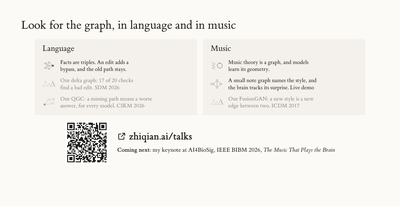
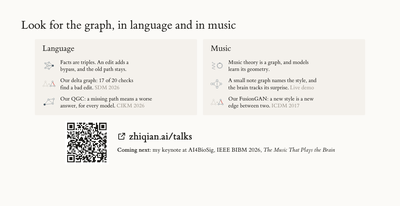
Final slide: one text color, venues in gray
Claude-Session: https://claude.ai/code/session_01CwywQbHke1EKdwXqbCrAvs

diff --git a/graph-inside/2026-11-19-cs-colloquium/index.html b/graph-inside/2026-11-19-cs-colloquium/index.html
@@ -1450,7 +1450,7 @@ var t=setInterval(function(){if(window.Reveal&&Reveal.on&&window.SC){clearInterv
 <section data-ch="4">
 <section data-ch="4">
   <h2>Look for the graph, in language and in music</h2>
-  <svg viewBox="0 0 1180 268" style="width:100%;max-width:1160px;height:auto;max-height:268px;display:block;margin:0 auto"><defs><marker id="fina" viewBox="0 0 10 10" refX="8" refY="5" markerWidth="6" markerHeight="6" orient="auto-start-reverse"><path d="M0,0 L10,5 L0,10 z" fill="#5F5D50"/></marker><marker id="fino" viewBox="0 0 10 10" refX="8" refY="5" markerWidth="6" markerHeight="6" orient="auto-start-reverse"><path d="M0,0 L10,5 L0,10 z" fill="#F76902"/></marker><marker id="fint" viewBox="0 0 10 10" refX="8" refY="5" markerWidth="6" markerHeight="6" orient="auto-start-reverse"><path d="M0,0 L10,5 L0,10 z" fill="#4C5B66"/></marker><marker id="fink" viewBox="0 0 10 10" refX="8" refY="5" markerWidth="6" markerHeight="6" orient="auto-start-reverse"><path d="M0,0 L10,5 L0,10 z" fill="#1F1E1B"/></marker><marker id="fing" viewBox="0 0 10 10" refX="8" refY="5" markerWidth="6" markerHeight="6" orient="auto-start-reverse"><path d="M0,0 L10,5 L0,10 z" fill="#ACA39A"/></marker><radialGradient id="fingl"><stop offset="0" stop-color="#F76902" stop-opacity=".5"/><stop offset="1" stop-color="#F76902" stop-opacity="0"/></radialGradient><radialGradient id="fingt"><stop offset="0" stop-color="#4C5B66" stop-opacity=".45"/><stop offset="1" stop-color="#4C5B66" stop-opacity="0"/></radialGradient></defs><defs><marker id="axk" viewBox="0 0 10 10" refX="8" refY="5" markerWidth="5" markerHeight="5" orient="auto"><path d="M0,0 L10,5 L0,10 z" fill="#1F1E1B"/></marker></defs><rect x="30" y="6" width="550" height="258" rx="4" fill="#F4F1EC" stroke="none" stroke-width="0" /><text x="56" y="46" font-size="28" font-weight="400" fill="#1F1E1B" text-anchor="start" font-family="et-book,Georgia,serif" style="font-size-adjust:none">Language</text><g transform="translate(78,96) scale(.5) translate(-78,-96)"><line x1="52" y1="80" x2="78" y2="74" stroke="#4C5B66" stroke-width="1.1" /><line x1="52" y1="80" x2="78" y2="96" stroke="#4C5B66" stroke-width="1.1" /><line x1="52" y1="80" x2="78" y2="118" stroke="#4C5B66" stroke-width="1.1" /><line x1="52" y1="112" x2="78" y2="74" stroke="#4C5B66" stroke-width="1.1" /><line x1="52" y1="112" x2="78" y2="96" stroke="#4C5B66" stroke-width="1.1" /><line x1="52" y1="112" x2="78" y2="118" stroke="#4C5B66" stroke-width="1.1" /><line x1="78" y1="74" x2="104" y2="96" stroke="#4C5B66" stroke-width="1.6" /><line x1="78" y1="96" x2="104" y2="96" stroke="#4C5B66" stroke-width="1.6" /><line x1="78" y1="118" x2="104" y2="96" stroke="#4C5B66" stroke-width="1.6" /><circle cx="52" cy="80" r="4.5" fill="#FBFAF7" stroke="#4C5B66" stroke-width="1.6" /><circle cx="52" cy="112" r="4.5" fill="#FBFAF7" stroke="#4C5B66" stroke-width="1.6" /><circle cx="78" cy="74" r="4.5" fill="#FBFAF7" stroke="#4C5B66" stroke-width="1.6" /><circle cx="78" cy="96" r="4.5" fill="#FBFAF7" stroke="#4C5B66" stroke-width="1.6" /><circle cx="78" cy="118" r="4.5" fill="#FBFAF7" stroke="#4C5B66" stroke-width="1.6" /><circle cx="104" cy="96" r="6" fill="#4C5B66" stroke="#4C5B66" stroke-width="1.6" /></g><text x="116" y="90" font-size="19" font-weight="400" fill="#1F1E1B" text-anchor="start" >Facts are triples. An edit adds a</text><text x="116" y="114" font-size="19" font-weight="400" fill="#1F1E1B" text-anchor="start" >bypass, and the old path stays.</text><g transform="translate(78,158) scale(.5) translate(-78,-158)"><line x1="40" y1="172" x2="54" y2="142" stroke="#b9b2a8" stroke-width="1.3" /><line x1="40" y1="172" x2="68" y2="172" stroke="#b9b2a8" stroke-width="1.3" /><line x1="54" y1="142" x2="68" y2="172" stroke="#b9b2a8" stroke-width="1.3" /><circle cx="40" cy="172" r="4.5" fill="#FBFAF7" stroke="#b9b2a8" stroke-width="1.5" /><circle cx="54" cy="142" r="4.5" fill="#FBFAF7" stroke="#b9b2a8" stroke-width="1.5" /><circle cx="68" cy="172" r="4.5" fill="#FBFAF7" stroke="#b9b2a8" stroke-width="1.5" /><line x1="88" y1="172" x2="102" y2="142" stroke="#A39D94" stroke-width="1.3" /><line x1="88" y1="172" x2="116" y2="172" stroke="#A39D94" stroke-width="1.3" /><line x1="102" y1="142" x2="116" y2="172" stroke="#DA291C" stroke-width="2.5" /><circle cx="88" cy="172" r="4.5" fill="#FBFAF7" stroke="#A39D94" stroke-width="1.5" /><circle cx="102" cy="142" r="4.5" fill="#FBFAF7" stroke="#A39D94" stroke-width="1.5" /><circle cx="116" cy="172" r="4.5" fill="#FBFAF7" stroke="#A39D94" stroke-width="1.5" /><text x="78" y="162" font-size="16" font-weight="600" fill="#5F5D50" text-anchor="middle" >→</text></g><text x="116" y="152" font-size="19" font-weight="400" fill="#8F887E" text-anchor="start" >Our delta graph: 17 of 20 checks</text><text x="116" y="176" font-size="19" font-weight="400" fill="#8F887E" text-anchor="start" >find a bad edit. SDM 2026</text><g transform="translate(78,220) scale(.5) translate(-78,-220)"><line x1="48" y1="236" x2="74" y2="202" stroke="#A39D94" stroke-width="1.3" /><line x1="74" y1="202" x2="104" y2="230" stroke="#A39D94" stroke-width="1.3" /><line x1="48" y1="236" x2="104" y2="230" stroke="#A39D94" stroke-width="1.3" /><line x1="74" y1="202" x2="110" y2="198" stroke="#A39D94" stroke-width="1.3" /><line x1="104" y1="230" x2="110" y2="198" stroke="#A39D94" stroke-width="1.3" /><circle cx="74" cy="202" r="5" fill="#FBFAF7" stroke="#A39D94" stroke-width="1.6" /><circle cx="104" cy="230" r="5" fill="#FBFAF7" stroke="#A39D94" stroke-width="1.6" /><circle cx="110" cy="198" r="5" fill="#FBFAF7" stroke="#A39D94" stroke-width="1.6" /><circle cx="48" cy="236" r="6" fill="#A39D94" stroke="#A39D94" stroke-width="1.6" /></g><text x="116" y="214" font-size="19" font-weight="400" fill="#8F887E" text-anchor="start" >Our QGC: a missing path means a worse</text><text x="116" y="238" font-size="19" font-weight="400" fill="#8F887E" text-anchor="start" >answer, for every model. CIKM 2026</text><g class="fragment" data-fragment-index="1"><rect x="600" y="6" width="550" height="258" rx="4" fill="#F4F1EC" stroke="none" stroke-width="0" /><text x="626" y="46" font-size="28" font-weight="400" fill="#1F1E1B" text-anchor="start" font-family="et-book,Georgia,serif" style="font-size-adjust:none">Music</text><g transform="translate(648,96) scale(.5) translate(-648,-96)"><polyline points="634.0,122.0 633.7,121.2 632.8,120.5 631.3,119.8 629.4,119.0 627.2,118.2 624.7,117.5 622.2,116.8 619.8,116.0 617.7,115.2 616.0,114.5 614.8,113.8 614.1,113.0 614.1,112.2 614.6,111.5 615.8,110.8 617.5,110.0 619.5,109.2 621.9,108.5 624.4,107.8 626.8,107.0 629.1,106.2 631.1,105.5 632.6,104.8 633.6,104.0 634.0,103.2 633.8,102.5 632.9,101.8 631.5,101.0 629.7,100.2 627.5,99.5 625.0,98.8 622.5,98.0 620.1,97.2 618.0,96.5 616.2,95.8 614.9,95.0 614.2,94.2 614.0,93.5 614.5,92.8 615.6,92.0 617.2,91.2 619.2,90.5 621.6,89.8 624.0,89.0 626.5,88.2 628.8,87.5 630.8,86.8 632.4,86.0 633.5,85.2 634.0,84.5 633.8,83.8 633.1,83.0 631.8,82.2 629.9,81.5 627.8,80.8 625.4,80.0 622.9,79.2 620.5,78.5 618.2,77.8 616.4,77.0 615.0,76.2 614.2,75.5 614.0,74.8 614.4,74.0 615.4,73.2 617.0,72.5 619.0,71.8" fill="none" stroke="#4C5B66" stroke-width="1.4"/><circle cx="666" cy="96" r="17" fill="none" stroke="#4C5B66" stroke-width="1"/><circle cx="683.0" cy="96.0" r="2.6" fill="#FBFAF7" stroke="#4C5B66" stroke-width="1.2" /><circle cx="680.7224318643355" cy="104.5" r="2.6" fill="#FBFAF7" stroke="#4C5B66" stroke-width="1.2" /><circle cx="674.5" cy="110.72243186433546" r="2.6" fill="#FBFAF7" stroke="#4C5B66" stroke-width="1.2" /><circle cx="666.0" cy="113.0" r="2.6" fill="#FBFAF7" stroke="#4C5B66" stroke-width="1.2" /><circle cx="657.5" cy="110.72243186433546" r="2.6" fill="#FBFAF7" stroke="#4C5B66" stroke-width="1.2" /><circle cx="651.2775681356645" cy="104.5" r="2.6" fill="#FBFAF7" stroke="#4C5B66" stroke-width="1.2" /><circle cx="649.0" cy="96.0" r="2.6" fill="#FBFAF7" stroke="#4C5B66" stroke-width="1.2" /><circle cx="651.2775681356645" cy="87.5" r="2.6" fill="#FBFAF7" stroke="#4C5B66" stroke-width="1.2" /><circle cx="657.5" cy="81.27756813566455" r="2.6" fill="#FBFAF7" stroke="#4C5B66" stroke-width="1.2" /><circle cx="666.0" cy="79.0" r="2.6" fill="#4C5B66" stroke="#4C5B66" stroke-width="1.2" /><circle cx="674.5" cy="81.27756813566454" r="2.6" fill="#FBFAF7" stroke="#4C5B66" stroke-width="1.2" /><circle cx="680.7224318643355" cy="87.5" r="2.6" fill="#FBFAF7" stroke="#4C5B66" stroke-width="1.2" /></g><text x="686" y="90" font-size="19" font-weight="400" fill="#1F1E1B" text-anchor="start" >Music theory is a graph, and models</text><text x="686" y="114" font-size="19" font-weight="400" fill="#1F1E1B" text-anchor="start" >learn its geometry.</text><g transform="translate(648,158) scale(.5) translate(-648,-158)"><line x1="648" y1="134" x2="674" y2="158" stroke="#4C5B66" stroke-width="1.3" /><line x1="674" y1="158" x2="648" y2="182" stroke="#4C5B66" stroke-width="1.3" /><line x1="648" y1="182" x2="622" y2="158" stroke="#4C5B66" stroke-width="1.3" /><line x1="622" y1="158" x2="648" y2="134" stroke="#4C5B66" stroke-width="1.3" /><line x1="648" y1="134" x2="648" y2="182" stroke="#4C5B66" stroke-width="1.3" /><path d="M617,155 C600,140 600,176 617,161" stroke="#4C5B66" stroke-width="1.3" fill="none" /><circle cx="648" cy="134" r="6" fill="#FBFAF7" stroke="#4C5B66" stroke-width="1.6" /><circle cx="674" cy="158" r="6" fill="#FBFAF7" stroke="#4C5B66" stroke-width="1.6" /><circle cx="648" cy="182" r="6" fill="#FBFAF7" stroke="#4C5B66" stroke-width="1.6" /><circle cx="622" cy="158" r="6" fill="#FBFAF7" stroke="#4C5B66" stroke-width="1.6" /></g><text x="686" y="152" font-size="19" font-weight="400" fill="#1F1E1B" text-anchor="start" >A small note graph names the style, and</text><text x="686" y="176" font-size="19" font-weight="400" fill="#1F1E1B" text-anchor="start" >the brain tracks its surprise. Live demo</text><g transform="translate(648,220) scale(.5) translate(-648,-220)"><line x1="610" y1="234" x2="624" y2="204" stroke="#b9b2a8" stroke-width="1.3" /><line x1="610" y1="234" x2="638" y2="234" stroke="#b9b2a8" stroke-width="1.3" /><line x1="624" y1="204" x2="638" y2="234" stroke="#b9b2a8" stroke-width="1.3" /><circle cx="610" cy="234" r="4.5" fill="#FBFAF7" stroke="#b9b2a8" stroke-width="1.5" /><circle cx="624" cy="204" r="4.5" fill="#FBFAF7" stroke="#b9b2a8" stroke-width="1.5" /><circle cx="638" cy="234" r="4.5" fill="#FBFAF7" stroke="#b9b2a8" stroke-width="1.5" /><line x1="658" y1="234" x2="672" y2="204" stroke="#A39D94" stroke-width="1.3" /><line x1="658" y1="234" x2="686" y2="234" stroke="#A39D94" stroke-width="1.3" /><line x1="672" y1="204" x2="686" y2="234" stroke="#DA291C" stroke-width="2.5" /><circle cx="658" cy="234" r="4.5" fill="#FBFAF7" stroke="#A39D94" stroke-width="1.5" /><circle cx="672" cy="204" r="4.5" fill="#FBFAF7" stroke="#A39D94" stroke-width="1.5" /><circle cx="686" cy="234" r="4.5" fill="#FBFAF7" stroke="#A39D94" stroke-width="1.5" /><text x="648" y="224" font-size="16" font-weight="600" fill="#5F5D50" text-anchor="middle" >→</text></g><text x="686" y="214" font-size="19" font-weight="400" fill="#8F887E" text-anchor="start" >Our FusionGAN: a new style is a new</text><text x="686" y="238" font-size="19" font-weight="400" fill="#8F887E" text-anchor="start" >edge between two. ICDM 2017</text></g></svg>
+  <svg viewBox="0 0 1180 268" style="width:100%;max-width:1160px;height:auto;max-height:268px;display:block;margin:0 auto"><defs><marker id="fina" viewBox="0 0 10 10" refX="8" refY="5" markerWidth="6" markerHeight="6" orient="auto-start-reverse"><path d="M0,0 L10,5 L0,10 z" fill="#5F5D50"/></marker><marker id="fino" viewBox="0 0 10 10" refX="8" refY="5" markerWidth="6" markerHeight="6" orient="auto-start-reverse"><path d="M0,0 L10,5 L0,10 z" fill="#F76902"/></marker><marker id="fint" viewBox="0 0 10 10" refX="8" refY="5" markerWidth="6" markerHeight="6" orient="auto-start-reverse"><path d="M0,0 L10,5 L0,10 z" fill="#4C5B66"/></marker><marker id="fink" viewBox="0 0 10 10" refX="8" refY="5" markerWidth="6" markerHeight="6" orient="auto-start-reverse"><path d="M0,0 L10,5 L0,10 z" fill="#1F1E1B"/></marker><marker id="fing" viewBox="0 0 10 10" refX="8" refY="5" markerWidth="6" markerHeight="6" orient="auto-start-reverse"><path d="M0,0 L10,5 L0,10 z" fill="#ACA39A"/></marker><radialGradient id="fingl"><stop offset="0" stop-color="#F76902" stop-opacity=".5"/><stop offset="1" stop-color="#F76902" stop-opacity="0"/></radialGradient><radialGradient id="fingt"><stop offset="0" stop-color="#4C5B66" stop-opacity=".45"/><stop offset="1" stop-color="#4C5B66" stop-opacity="0"/></radialGradient></defs><defs><marker id="axk" viewBox="0 0 10 10" refX="8" refY="5" markerWidth="5" markerHeight="5" orient="auto"><path d="M0,0 L10,5 L0,10 z" fill="#1F1E1B"/></marker></defs><rect x="30" y="6" width="550" height="258" rx="4" fill="#F4F1EC" stroke="none" stroke-width="0" /><text x="56" y="46" font-size="28" font-weight="400" fill="#1F1E1B" text-anchor="start" font-family="et-book,Georgia,serif" style="font-size-adjust:none">Language</text><g transform="translate(78,96) scale(.5) translate(-78,-96)"><line x1="52" y1="80" x2="78" y2="74" stroke="#4C5B66" stroke-width="1.1" /><line x1="52" y1="80" x2="78" y2="96" stroke="#4C5B66" stroke-width="1.1" /><line x1="52" y1="80" x2="78" y2="118" stroke="#4C5B66" stroke-width="1.1" /><line x1="52" y1="112" x2="78" y2="74" stroke="#4C5B66" stroke-width="1.1" /><line x1="52" y1="112" x2="78" y2="96" stroke="#4C5B66" stroke-width="1.1" /><line x1="52" y1="112" x2="78" y2="118" stroke="#4C5B66" stroke-width="1.1" /><line x1="78" y1="74" x2="104" y2="96" stroke="#4C5B66" stroke-width="1.6" /><line x1="78" y1="96" x2="104" y2="96" stroke="#4C5B66" stroke-width="1.6" /><line x1="78" y1="118" x2="104" y2="96" stroke="#4C5B66" stroke-width="1.6" /><circle cx="52" cy="80" r="4.5" fill="#FBFAF7" stroke="#4C5B66" stroke-width="1.6" /><circle cx="52" cy="112" r="4.5" fill="#FBFAF7" stroke="#4C5B66" stroke-width="1.6" /><circle cx="78" cy="74" r="4.5" fill="#FBFAF7" stroke="#4C5B66" stroke-width="1.6" /><circle cx="78" cy="96" r="4.5" fill="#FBFAF7" stroke="#4C5B66" stroke-width="1.6" /><circle cx="78" cy="118" r="4.5" fill="#FBFAF7" stroke="#4C5B66" stroke-width="1.6" /><circle cx="104" cy="96" r="6" fill="#4C5B66" stroke="#4C5B66" stroke-width="1.6" /></g><text x="116" y="90" font-size="19" font-weight="400" fill="#1F1E1B" text-anchor="start" >Facts are triples. An edit adds a</text><text x="116" y="114" font-size="19" font-weight="400" fill="#1F1E1B" text-anchor="start" >bypass, and the old path stays.</text><g transform="translate(78,158) scale(.5) translate(-78,-158)"><line x1="40" y1="172" x2="54" y2="142" stroke="#b9b2a8" stroke-width="1.3" /><line x1="40" y1="172" x2="68" y2="172" stroke="#b9b2a8" stroke-width="1.3" /><line x1="54" y1="142" x2="68" y2="172" stroke="#b9b2a8" stroke-width="1.3" /><circle cx="40" cy="172" r="4.5" fill="#FBFAF7" stroke="#b9b2a8" stroke-width="1.5" /><circle cx="54" cy="142" r="4.5" fill="#FBFAF7" stroke="#b9b2a8" stroke-width="1.5" /><circle cx="68" cy="172" r="4.5" fill="#FBFAF7" stroke="#b9b2a8" stroke-width="1.5" /><line x1="88" y1="172" x2="102" y2="142" stroke="#4C5B66" stroke-width="1.3" /><line x1="88" y1="172" x2="116" y2="172" stroke="#4C5B66" stroke-width="1.3" /><line x1="102" y1="142" x2="116" y2="172" stroke="#DA291C" stroke-width="2.5" /><circle cx="88" cy="172" r="4.5" fill="#FBFAF7" stroke="#4C5B66" stroke-width="1.5" /><circle cx="102" cy="142" r="4.5" fill="#FBFAF7" stroke="#4C5B66" stroke-width="1.5" /><circle cx="116" cy="172" r="4.5" fill="#FBFAF7" stroke="#4C5B66" stroke-width="1.5" /><text x="78" y="162" font-size="16" font-weight="600" fill="#5F5D50" text-anchor="middle" >→</text></g><text x="116" y="152" font-size="19" font-weight="400" fill="#1F1E1B" text-anchor="start" >Our delta graph: 17 of 20 checks</text><text x="116" y="176" font-size="19" font-weight="400" fill="#1F1E1B" text-anchor="start" >find a bad edit. <tspan fill="#9A948B">SDM 2026</tspan></text><g transform="translate(78,220) scale(.5) translate(-78,-220)"><line x1="48" y1="236" x2="74" y2="202" stroke="#4C5B66" stroke-width="1.3" /><line x1="74" y1="202" x2="104" y2="230" stroke="#4C5B66" stroke-width="1.3" /><line x1="48" y1="236" x2="104" y2="230" stroke="#4C5B66" stroke-width="1.3" /><line x1="74" y1="202" x2="110" y2="198" stroke="#4C5B66" stroke-width="1.3" /><line x1="104" y1="230" x2="110" y2="198" stroke="#4C5B66" stroke-width="1.3" /><circle cx="74" cy="202" r="5" fill="#FBFAF7" stroke="#4C5B66" stroke-width="1.6" /><circle cx="104" cy="230" r="5" fill="#FBFAF7" stroke="#4C5B66" stroke-width="1.6" /><circle cx="110" cy="198" r="5" fill="#FBFAF7" stroke="#4C5B66" stroke-width="1.6" /><circle cx="48" cy="236" r="6" fill="#4C5B66" stroke="#4C5B66" stroke-width="1.6" /></g><text x="116" y="214" font-size="19" font-weight="400" fill="#1F1E1B" text-anchor="start" >Our QGC: a missing path means a worse</text><text x="116" y="238" font-size="19" font-weight="400" fill="#1F1E1B" text-anchor="start" >answer, for every model. <tspan fill="#9A948B">CIKM 2026</tspan></text><g class="fragment" data-fragment-index="1"><rect x="600" y="6" width="550" height="258" rx="4" fill="#F4F1EC" stroke="none" stroke-width="0" /><text x="626" y="46" font-size="28" font-weight="400" fill="#1F1E1B" text-anchor="start" font-family="et-book,Georgia,serif" style="font-size-adjust:none">Music</text><g transform="translate(648,96) scale(.5) translate(-648,-96)"><polyline points="634.0,122.0 633.7,121.2 632.8,120.5 631.3,119.8 629.4,119.0 627.2,118.2 624.7,117.5 622.2,116.8 619.8,116.0 617.7,115.2 616.0,114.5 614.8,113.8 614.1,113.0 614.1,112.2 614.6,111.5 615.8,110.8 617.5,110.0 619.5,109.2 621.9,108.5 624.4,107.8 626.8,107.0 629.1,106.2 631.1,105.5 632.6,104.8 633.6,104.0 634.0,103.2 633.8,102.5 632.9,101.8 631.5,101.0 629.7,100.2 627.5,99.5 625.0,98.8 622.5,98.0 620.1,97.2 618.0,96.5 616.2,95.8 614.9,95.0 614.2,94.2 614.0,93.5 614.5,92.8 615.6,92.0 617.2,91.2 619.2,90.5 621.6,89.8 624.0,89.0 626.5,88.2 628.8,87.5 630.8,86.8 632.4,86.0 633.5,85.2 634.0,84.5 633.8,83.8 633.1,83.0 631.8,82.2 629.9,81.5 627.8,80.8 625.4,80.0 622.9,79.2 620.5,78.5 618.2,77.8 616.4,77.0 615.0,76.2 614.2,75.5 614.0,74.8 614.4,74.0 615.4,73.2 617.0,72.5 619.0,71.8" fill="none" stroke="#4C5B66" stroke-width="1.4"/><circle cx="666" cy="96" r="17" fill="none" stroke="#4C5B66" stroke-width="1"/><circle cx="683.0" cy="96.0" r="2.6" fill="#FBFAF7" stroke="#4C5B66" stroke-width="1.2" /><circle cx="680.7224318643355" cy="104.5" r="2.6" fill="#FBFAF7" stroke="#4C5B66" stroke-width="1.2" /><circle cx="674.5" cy="110.72243186433546" r="2.6" fill="#FBFAF7" stroke="#4C5B66" stroke-width="1.2" /><circle cx="666.0" cy="113.0" r="2.6" fill="#FBFAF7" stroke="#4C5B66" stroke-width="1.2" /><circle cx="657.5" cy="110.72243186433546" r="2.6" fill="#FBFAF7" stroke="#4C5B66" stroke-width="1.2" /><circle cx="651.2775681356645" cy="104.5" r="2.6" fill="#FBFAF7" stroke="#4C5B66" stroke-width="1.2" /><circle cx="649.0" cy="96.0" r="2.6" fill="#FBFAF7" stroke="#4C5B66" stroke-width="1.2" /><circle cx="651.2775681356645" cy="87.5" r="2.6" fill="#FBFAF7" stroke="#4C5B66" stroke-width="1.2" /><circle cx="657.5" cy="81.27756813566455" r="2.6" fill="#FBFAF7" stroke="#4C5B66" stroke-width="1.2" /><circle cx="666.0" cy="79.0" r="2.6" fill="#4C5B66" stroke="#4C5B66" stroke-width="1.2" /><circle cx="674.5" cy="81.27756813566454" r="2.6" fill="#FBFAF7" stroke="#4C5B66" stroke-width="1.2" /><circle cx="680.7224318643355" cy="87.5" r="2.6" fill="#FBFAF7" stroke="#4C5B66" stroke-width="1.2" /></g><text x="686" y="90" font-size="19" font-weight="400" fill="#1F1E1B" text-anchor="start" >Music theory is a graph, and models</text><text x="686" y="114" font-size="19" font-weight="400" fill="#1F1E1B" text-anchor="start" >learn its geometry.</text><g transform="translate(648,158) scale(.5) translate(-648,-158)"><line x1="648" y1="134" x2="674" y2="158" stroke="#4C5B66" stroke-width="1.3" /><line x1="674" y1="158" x2="648" y2="182" stroke="#4C5B66" stroke-width="1.3" /><line x1="648" y1="182" x2="622" y2="158" stroke="#4C5B66" stroke-width="1.3" /><line x1="622" y1="158" x2="648" y2="134" stroke="#4C5B66" stroke-width="1.3" /><line x1="648" y1="134" x2="648" y2="182" stroke="#4C5B66" stroke-width="1.3" /><path d="M617,155 C600,140 600,176 617,161" stroke="#4C5B66" stroke-width="1.3" fill="none" /><circle cx="648" cy="134" r="6" fill="#FBFAF7" stroke="#4C5B66" stroke-width="1.6" /><circle cx="674" cy="158" r="6" fill="#FBFAF7" stroke="#4C5B66" stroke-width="1.6" /><circle cx="648" cy="182" r="6" fill="#FBFAF7" stroke="#4C5B66" stroke-width="1.6" /><circle cx="622" cy="158" r="6" fill="#FBFAF7" stroke="#4C5B66" stroke-width="1.6" /></g><text x="686" y="152" font-size="19" font-weight="400" fill="#1F1E1B" text-anchor="start" >A small note graph names the style, and</text><text x="686" y="176" font-size="19" font-weight="400" fill="#1F1E1B" text-anchor="start" >the brain tracks its surprise. <tspan fill="#9A948B">Live demo</tspan></text><g transform="translate(648,220) scale(.5) translate(-648,-220)"><line x1="610" y1="234" x2="624" y2="204" stroke="#b9b2a8" stroke-width="1.3" /><line x1="610" y1="234" x2="638" y2="234" stroke="#b9b2a8" stroke-width="1.3" /><line x1="624" y1="204" x2="638" y2="234" stroke="#b9b2a8" stroke-width="1.3" /><circle cx="610" cy="234" r="4.5" fill="#FBFAF7" stroke="#b9b2a8" stroke-width="1.5" /><circle cx="624" cy="204" r="4.5" fill="#FBFAF7" stroke="#b9b2a8" stroke-width="1.5" /><circle cx="638" cy="234" r="4.5" fill="#FBFAF7" stroke="#b9b2a8" stroke-width="1.5" /><line x1="658" y1="234" x2="672" y2="204" stroke="#4C5B66" stroke-width="1.3" /><line x1="658" y1="234" x2="686" y2="234" stroke="#4C5B66" stroke-width="1.3" /><line x1="672" y1="204" x2="686" y2="234" stroke="#DA291C" stroke-width="2.5" /><circle cx="658" cy="234" r="4.5" fill="#FBFAF7" stroke="#4C5B66" stroke-width="1.5" /><circle cx="672" cy="204" r="4.5" fill="#FBFAF7" stroke="#4C5B66" stroke-width="1.5" /><circle cx="686" cy="234" r="4.5" fill="#FBFAF7" stroke="#4C5B66" stroke-width="1.5" /><text x="648" y="224" font-size="16" font-weight="600" fill="#5F5D50" text-anchor="middle" >→</text></g><text x="686" y="214" font-size="19" font-weight="400" fill="#1F1E1B" text-anchor="start" >Our FusionGAN: a new style is a new</text><text x="686" y="238" font-size="19" font-weight="400" fill="#1F1E1B" text-anchor="start" >edge between two. <tspan fill="#9A948B">ICDM 2017</tspan></text></g></svg>
   <div style="display:flex;justify-content:center;align-items:center;gap:28px;margin-top:.5em"><svg viewBox="0 0 41 41" width="146" height="146" style="background:#fff;border-radius:4px;display:block" shape-rendering="crispEdges"><path d="M2,2h1v1h-1zM3,2h1v1h-1zM4,2h1v1h-1zM5,2h1v1h-1zM6,2h1v1h-1zM7,2h1v1h-1zM8,2h1v1h-1zM11,2h1v1h-1zM13,2h1v1h-1zM14,2h1v1h-1zM15,2h1v1h-1zM17,2h1v1h-1zM18,2h1v1h-1zM22,2h1v1h-1zM23,2h1v1h-1zM24,2h1v1h-1zM25,2h1v1h-1zM29,2h1v1h-1zM32,2h1v1h-1zM33,2h1v1h-1zM34,2h1v1h-1zM35,2h1v1h-1zM36,2h1v1h-1zM37,2h1v1h-1zM38,2h1v1h-1zM2,3h1v1h-1zM8,3h1v1h-1zM14,3h1v1h-1zM17,3h1v1h-1zM20,3h1v1h-1zM22,3h1v1h-1zM23,3h1v1h-1zM24,3h1v1h-1zM25,3h1v1h-1zM26,3h1v1h-1zM27,3h1v1h-1zM29,3h1v1h-1zM32,3h1v1h-1zM38,3h1v1h-1zM2,4h1v1h-1zM4,4h1v1h-1zM5,4h1v1h-1zM6,4h1v1h-1zM8,4h1v1h-1zM11,4h1v1h-1zM12,4h1v1h-1zM13,4h1v1h-1zM15,4h1v1h-1zM19,4h1v1h-1zM25,4h1v1h-1zM29,4h1v1h-1zM30,4h1v1h-1zM32,4h1v1h-1zM34,4h1v1h-1zM35,4h1v1h-1zM36,4h1v1h-1zM38,4h1v1h-1zM2,5h1v1h-1zM4,5h1v1h-1zM5,5h1v1h-1zM6,5h1v1h-1zM8,5h1v1h-1zM13,5h1v1h-1zM14,5h1v1h-1zM16,5h1v1h-1zM17,5h1v1h-1zM20,5h1v1h-1zM21,5h1v1h-1zM24,5h1v1h-1zM25,5h1v1h-1zM29,5h1v1h-1zM30,5h1v1h-1zM32,5h1v1h-1zM34,5h1v1h-1zM35,5h1v1h-1zM36,5h1v1h-1zM38,5h1v1h-1zM2,6h1v1h-1zM4,6h1v1h-1zM5,6h1v1h-1zM6,6h1v1h-1zM8,6h1v1h-1zM12,6h1v1h-1zM13,6h1v1h-1zM14,6h1v1h-1zM16,6h1v1h-1zM17,6h1v1h-1zM19,6h1v1h-1zM23,6h1v1h-1zM25,6h1v1h-1zM27,6h1v1h-1zM28,6h1v1h-1zM29,6h1v1h-1zM30,6h1v1h-1zM32,6h1v1h-1zM34,6h1v1h-1zM35,6h1v1h-1zM36,6h1v1h-1zM38,6h1v1h-1zM2,7h1v1h-1zM8,7h1v1h-1zM10,7h1v1h-1zM17,7h1v1h-1zM18,7h1v1h-1zM19,7h1v1h-1zM20,7h1v1h-1zM21,7h1v1h-1zM23,7h1v1h-1zM28,7h1v1h-1zM29,7h1v1h-1zM30,7h1v1h-1zM32,7h1v1h-1zM38,7h1v1h-1zM2,8h1v1h-1zM3,8h1v1h-1zM4,8h1v1h-1zM5,8h1v1h-1zM6,8h1v1h-1zM7,8h1v1h-1zM8,8h1v1h-1zM10,8h1v1h-1zM12,8h1v1h-1zM14,8h1v1h-1zM16,8h1v1h-1zM18,8h1v1h-1zM20,8h1v1h-1zM22,8h1v1h-1zM24,8h1v1h-1zM26,8h1v1h-1zM28,8h1v1h-1zM30,8h1v1h-1zM32,8h1v1h-1zM33,8h1v1h-1zM34,8h1v1h-1zM35,8h1v1h-1zM36,8h1v1h-1zM37,8h1v1h-1zM38,8h1v1h-1zM16,9h1v1h-1zM21,9h1v1h-1zM22,9h1v1h-1zM23,9h1v1h-1zM26,9h1v1h-1zM28,9h1v1h-1zM29,9h1v1h-1zM30,9h1v1h-1zM2,10h1v1h-1zM5,10h1v1h-1zM7,10h1v1h-1zM8,10h1v1h-1zM10,10h1v1h-1zM12,10h1v1h-1zM13,10h1v1h-1zM15,10h1v1h-1zM16,10h1v1h-1zM17,10h1v1h-1zM19,10h1v1h-1zM21,10h1v1h-1zM23,10h1v1h-1zM27,10h1v1h-1zM30,10h1v1h-1zM31,10h1v1h-1zM33,10h1v1h-1zM3,11h1v1h-1zM5,11h1v1h-1zM10,11h1v1h-1zM11,11h1v1h-1zM12,11h1v1h-1zM14,11h1v1h-1zM15,11h1v1h-1zM17,11h1v1h-1zM19,11h1v1h-1zM21,11h1v1h-1zM22,11h1v1h-1zM24,11h1v1h-1zM26,11h1v1h-1zM30,11h1v1h-1zM32,11h1v1h-1zM33,11h1v1h-1zM38,11h1v1h-1zM5,12h1v1h-1zM7,12h1v1h-1zM8,12h1v1h-1zM10,12h1v1h-1zM12,12h1v1h-1zM13,12h1v1h-1zM18,12h1v1h-1zM19,12h1v1h-1zM20,12h1v1h-1zM22,12h1v1h-1zM23,12h1v1h-1zM24,12h1v1h-1zM30,12h1v1h-1zM32,12h1v1h-1zM34,12h1v1h-1zM35,12h1v1h-1zM37,12h1v1h-1zM38,12h1v1h-1zM2,13h1v1h-1zM3,13h1v1h-1zM6,13h1v1h-1zM7,13h1v1h-1zM11,13h1v1h-1zM12,13h1v1h-1zM15,13h1v1h-1zM16,13h1v1h-1zM17,13h1v1h-1zM23,13h1v1h-1zM24,13h1v1h-1zM27,13h1v1h-1zM28,13h1v1h-1zM29,13h1v1h-1zM30,13h1v1h-1zM31,13h1v1h-1zM35,13h1v1h-1zM2,14h1v1h-1zM3,14h1v1h-1zM4,14h1v1h-1zM6,14h1v1h-1zM8,14h1v1h-1zM10,14h1v1h-1zM12,14h1v1h-1zM19,14h1v1h-1zM21,14h1v1h-1zM22,14h1v1h-1zM23,14h1v1h-1zM24,14h1v1h-1zM26,14h1v1h-1zM27,14h1v1h-1zM29,14h1v1h-1zM30,14h1v1h-1zM31,14h1v1h-1zM32,14h1v1h-1zM37,14h1v1h-1zM38,14h1v1h-1zM2,15h1v1h-1zM3,15h1v1h-1zM4,15h1v1h-1zM5,15h1v1h-1zM7,15h1v1h-1zM11,15h1v1h-1zM12,15h1v1h-1zM15,15h1v1h-1zM19,15h1v1h-1zM21,15h1v1h-1zM23,15h1v1h-1zM24,15h1v1h-1zM27,15h1v1h-1zM32,15h1v1h-1zM33,15h1v1h-1zM36,15h1v1h-1zM37,15h1v1h-1zM38,15h1v1h-1zM2,16h1v1h-1zM5,16h1v1h-1zM7,16h1v1h-1zM8,16h1v1h-1zM9,16h1v1h-1zM12,16h1v1h-1zM14,16h1v1h-1zM15,16h1v1h-1zM16,16h1v1h-1zM18,16h1v1h-1zM19,16h1v1h-1zM20,16h1v1h-1zM22,16h1v1h-1zM25,16h1v1h-1zM26,16h1v1h-1zM28,16h1v1h-1zM30,16h1v1h-1zM31,16h1v1h-1zM32,16h1v1h-1zM33,16h1v1h-1zM34,16h1v1h-1zM36,16h1v1h-1zM38,16h1v1h-1zM10,17h1v1h-1zM11,17h1v1h-1zM13,17h1v1h-1zM14,17h1v1h-1zM15,17h1v1h-1zM16,17h1v1h-1zM18,17h1v1h-1zM19,17h1v1h-1zM20,17h1v1h-1zM23,17h1v1h-1zM24,17h1v1h-1zM27,17h1v1h-1zM28,17h1v1h-1zM29,17h1v1h-1zM30,17h1v1h-1zM34,17h1v1h-1zM37,17h1v1h-1zM5,18h1v1h-1zM6,18h1v1h-1zM7,18h1v1h-1zM8,18h1v1h-1zM10,18h1v1h-1zM11,18h1v1h-1zM13,18h1v1h-1zM14,18h1v1h-1zM15,18h1v1h-1zM16,18h1v1h-1zM17,18h1v1h-1zM20,18h1v1h-1zM21,18h1v1h-1zM23,18h1v1h-1zM24,18h1v1h-1zM32,18h1v1h-1zM33,18h1v1h-1zM35,18h1v1h-1zM36,18h1v1h-1zM37,18h1v1h-1zM38,18h1v1h-1zM4,19h1v1h-1zM5,19h1v1h-1zM6,19h1v1h-1zM9,19h1v1h-1zM10,19h1v1h-1zM16,19h1v1h-1zM17,19h1v1h-1zM18,19h1v1h-1zM20,19h1v1h-1zM21,19h1v1h-1zM22,19h1v1h-1zM25,19h1v1h-1zM26,19h1v1h-1zM27,19h1v1h-1zM28,19h1v1h-1zM31,19h1v1h-1zM32,19h1v1h-1zM33,19h1v1h-1zM34,19h1v1h-1zM36,19h1v1h-1zM37,19h1v1h-1zM38,19h1v1h-1zM3,20h1v1h-1zM6,20h1v1h-1zM7,20h1v1h-1zM8,20h1v1h-1zM9,20h1v1h-1zM11,20h1v1h-1zM12,20h1v1h-1zM13,20h1v1h-1zM14,20h1v1h-1zM17,20h1v1h-1zM18,20h1v1h-1zM20,20h1v1h-1zM23,20h1v1h-1zM27,20h1v1h-1zM32,20h1v1h-1zM35,20h1v1h-1zM37,20h1v1h-1zM38,20h1v1h-1zM3,21h1v1h-1zM5,21h1v1h-1zM7,21h1v1h-1zM9,21h1v1h-1zM12,21h1v1h-1zM13,21h1v1h-1zM16,21h1v1h-1zM19,21h1v1h-1zM20,21h1v1h-1zM23,21h1v1h-1zM26,21h1v1h-1zM28,21h1v1h-1zM29,21h1v1h-1zM30,21h1v1h-1zM33,21h1v1h-1zM35,21h1v1h-1zM36,21h1v1h-1zM37,21h1v1h-1zM3,22h1v1h-1zM4,22h1v1h-1zM5,22h1v1h-1zM7,22h1v1h-1zM8,22h1v1h-1zM9,22h1v1h-1zM10,22h1v1h-1zM11,22h1v1h-1zM12,22h1v1h-1zM13,22h1v1h-1zM15,22h1v1h-1zM16,22h1v1h-1zM17,22h1v1h-1zM18,22h1v1h-1zM22,22h1v1h-1zM23,22h1v1h-1zM26,22h1v1h-1zM27,22h1v1h-1zM28,22h1v1h-1zM29,22h1v1h-1zM32,22h1v1h-1zM34,22h1v1h-1zM35,22h1v1h-1zM37,22h1v1h-1zM2,23h1v1h-1zM3,23h1v1h-1zM4,23h1v1h-1zM5,23h1v1h-1zM7,23h1v1h-1zM10,23h1v1h-1zM11,23h1v1h-1zM12,23h1v1h-1zM13,23h1v1h-1zM14,23h1v1h-1zM15,23h1v1h-1zM18,23h1v1h-1zM20,23h1v1h-1zM22,23h1v1h-1zM24,23h1v1h-1zM26,23h1v1h-1zM27,23h1v1h-1zM30,23h1v1h-1zM32,23h1v1h-1zM33,23h1v1h-1zM35,23h1v1h-1zM37,23h1v1h-1zM38,23h1v1h-1zM2,24h1v1h-1zM5,24h1v1h-1zM6,24h1v1h-1zM8,24h1v1h-1zM9,24h1v1h-1zM10,24h1v1h-1zM11,24h1v1h-1zM13,24h1v1h-1zM14,24h1v1h-1zM15,24h1v1h-1zM18,24h1v1h-1zM19,24h1v1h-1zM21,24h1v1h-1zM24,24h1v1h-1zM28,24h1v1h-1zM30,24h1v1h-1zM32,24h1v1h-1zM37,24h1v1h-1zM38,24h1v1h-1zM4,25h1v1h-1zM5,25h1v1h-1zM10,25h1v1h-1zM11,25h1v1h-1zM15,25h1v1h-1zM17,25h1v1h-1zM19,25h1v1h-1zM22,25h1v1h-1zM23,25h1v1h-1zM24,25h1v1h-1zM26,25h1v1h-1zM27,25h1v1h-1zM31,25h1v1h-1zM37,25h1v1h-1zM4,26h1v1h-1zM5,26h1v1h-1zM7,26h1v1h-1zM8,26h1v1h-1zM11,26h1v1h-1zM16,26h1v1h-1zM17,26h1v1h-1zM21,26h1v1h-1zM22,26h1v1h-1zM23,26h1v1h-1zM24,26h1v1h-1zM26,26h1v1h-1zM27,26h1v1h-1zM32,26h1v1h-1zM33,26h1v1h-1zM35,26h1v1h-1zM4,27h1v1h-1zM7,27h1v1h-1zM12,27h1v1h-1zM15,27h1v1h-1zM17,27h1v1h-1zM18,27h1v1h-1zM19,27h1v1h-1zM22,27h1v1h-1zM23,27h1v1h-1zM24,27h1v1h-1zM26,27h1v1h-1zM27,27h1v1h-1zM30,27h1v1h-1zM31,27h1v1h-1zM32,27h1v1h-1zM35,27h1v1h-1zM36,27h1v1h-1zM37,27h1v1h-1zM38,27h1v1h-1zM2,28h1v1h-1zM6,28h1v1h-1zM8,28h1v1h-1zM9,28h1v1h-1zM13,28h1v1h-1zM14,28h1v1h-1zM16,28h1v1h-1zM19,28h1v1h-1zM20,28h1v1h-1zM21,28h1v1h-1zM25,28h1v1h-1zM26,28h1v1h-1zM32,28h1v1h-1zM34,28h1v1h-1zM38,28h1v1h-1zM3,29h1v1h-1zM6,29h1v1h-1zM12,29h1v1h-1zM14,29h1v1h-1zM15,29h1v1h-1zM16,29h1v1h-1zM17,29h1v1h-1zM19,29h1v1h-1zM22,29h1v1h-1zM23,29h1v1h-1zM25,29h1v1h-1zM26,29h1v1h-1zM27,29h1v1h-1zM28,29h1v1h-1zM29,29h1v1h-1zM33,29h1v1h-1zM35,29h1v1h-1zM38,29h1v1h-1zM2,30h1v1h-1zM3,30h1v1h-1zM4,30h1v1h-1zM5,30h1v1h-1zM7,30h1v1h-1zM8,30h1v1h-1zM9,30h1v1h-1zM15,30h1v1h-1zM19,30h1v1h-1zM22,30h1v1h-1zM23,30h1v1h-1zM24,30h1v1h-1zM25,30h1v1h-1zM30,30h1v1h-1zM31,30h1v1h-1zM32,30h1v1h-1zM33,30h1v1h-1zM34,30h1v1h-1zM35,30h1v1h-1zM36,30h1v1h-1zM37,30h1v1h-1zM38,30h1v1h-1zM10,31h1v1h-1zM13,31h1v1h-1zM14,31h1v1h-1zM16,31h1v1h-1zM18,31h1v1h-1zM25,31h1v1h-1zM26,31h1v1h-1zM30,31h1v1h-1zM34,31h1v1h-1zM35,31h1v1h-1zM38,31h1v1h-1zM2,32h1v1h-1zM3,32h1v1h-1zM4,32h1v1h-1zM5,32h1v1h-1zM6,32h1v1h-1zM7,32h1v1h-1zM8,32h1v1h-1zM11,32h1v1h-1zM12,32h1v1h-1zM15,32h1v1h-1zM20,32h1v1h-1zM22,32h1v1h-1zM23,32h1v1h-1zM26,32h1v1h-1zM27,32h1v1h-1zM29,32h1v1h-1zM30,32h1v1h-1zM32,32h1v1h-1zM34,32h1v1h-1zM35,32h1v1h-1zM37,32h1v1h-1zM38,32h1v1h-1zM2,33h1v1h-1zM8,33h1v1h-1zM10,33h1v1h-1zM11,33h1v1h-1zM13,33h1v1h-1zM14,33h1v1h-1zM15,33h1v1h-1zM17,33h1v1h-1zM19,33h1v1h-1zM20,33h1v1h-1zM22,33h1v1h-1zM23,33h1v1h-1zM25,33h1v1h-1zM28,33h1v1h-1zM30,33h1v1h-1zM34,33h1v1h-1zM35,33h1v1h-1zM36,33h1v1h-1zM38,33h1v1h-1zM2,34h1v1h-1zM4,34h1v1h-1zM5,34h1v1h-1zM6,34h1v1h-1zM8,34h1v1h-1zM13,34h1v1h-1zM16,34h1v1h-1zM17,34h1v1h-1zM18,34h1v1h-1zM19,34h1v1h-1zM20,34h1v1h-1zM21,34h1v1h-1zM24,34h1v1h-1zM26,34h1v1h-1zM27,34h1v1h-1zM28,34h1v1h-1zM30,34h1v1h-1zM31,34h1v1h-1zM32,34h1v1h-1zM33,34h1v1h-1zM34,34h1v1h-1zM35,34h1v1h-1zM37,34h1v1h-1zM38,34h1v1h-1zM2,35h1v1h-1zM4,35h1v1h-1zM5,35h1v1h-1zM6,35h1v1h-1zM8,35h1v1h-1zM10,35h1v1h-1zM11,35h1v1h-1zM12,35h1v1h-1zM13,35h1v1h-1zM14,35h1v1h-1zM15,35h1v1h-1zM17,35h1v1h-1zM18,35h1v1h-1zM20,35h1v1h-1zM21,35h1v1h-1zM23,35h1v1h-1zM26,35h1v1h-1zM27,35h1v1h-1zM33,35h1v1h-1zM34,35h1v1h-1zM35,35h1v1h-1zM37,35h1v1h-1zM2,36h1v1h-1zM4,36h1v1h-1zM5,36h1v1h-1zM6,36h1v1h-1zM8,36h1v1h-1zM11,36h1v1h-1zM12,36h1v1h-1zM14,36h1v1h-1zM16,36h1v1h-1zM17,36h1v1h-1zM20,36h1v1h-1zM21,36h1v1h-1zM22,36h1v1h-1zM26,36h1v1h-1zM27,36h1v1h-1zM33,36h1v1h-1zM34,36h1v1h-1zM37,36h1v1h-1zM38,36h1v1h-1zM2,37h1v1h-1zM8,37h1v1h-1zM14,37h1v1h-1zM18,37h1v1h-1zM21,37h1v1h-1zM22,37h1v1h-1zM23,37h1v1h-1zM24,37h1v1h-1zM26,37h1v1h-1zM27,37h1v1h-1zM28,37h1v1h-1zM30,37h1v1h-1zM31,37h1v1h-1zM32,37h1v1h-1zM33,37h1v1h-1zM35,37h1v1h-1zM2,38h1v1h-1zM3,38h1v1h-1zM4,38h1v1h-1zM5,38h1v1h-1zM6,38h1v1h-1zM7,38h1v1h-1zM8,38h1v1h-1zM10,38h1v1h-1zM11,38h1v1h-1zM12,38h1v1h-1zM13,38h1v1h-1zM14,38h1v1h-1zM17,38h1v1h-1zM18,38h1v1h-1zM19,38h1v1h-1zM20,38h1v1h-1zM22,38h1v1h-1zM23,38h1v1h-1zM25,38h1v1h-1zM26,38h1v1h-1zM27,38h1v1h-1zM30,38h1v1h-1zM31,38h1v1h-1zM32,38h1v1h-1zM35,38h1v1h-1zM37,38h1v1h-1zM38,38h1v1h-1z" fill="#1F1E1B"/></svg><div style="display:flex;flex-direction:column;align-items:flex-start;gap:14px;text-align:left"><a href="https://zhiqian.ai/talks" target="_blank" rel="noopener" style="display:flex;align-items:center;gap:10px;color:#1F1E1B;text-decoration:none;font:600 34px/1 et-book,Georgia,serif"><svg viewBox="0 0 24 24" width="30" height="30" fill="none" stroke="#1F1E1B" stroke-width="2" stroke-linecap="round" stroke-linejoin="round"><path d="M14 4h6v6"/><path d="M20 4l-9 9"/><path d="M18 14v5a1 1 0 0 1-1 1H5a1 1 0 0 1-1-1V7a1 1 0 0 1 1-1h5"/></svg>zhiqian.ai/talks</a><div style="font:400 20px/1.4 et-book,Georgia,serif;color:#1F1E1B;white-space:nowrap"><span style="font-weight:700">Coming next:</span> my keynote at AI4BioSig, IEEE BIBM 2026, <i>The Music That Plays the Brain</i></div></div></div>
   <aside class="notes">The close, both parts in one picture. Language: facts are triples that hold each other up, and an edit adds a bypass while the old path stays. Our two results: the delta graph finds 17 bad edits in 20 checks, SDM 2026, and QGC shows a missing path means a worse answer for every model, CIKM 2026. Click, music: music theory is a graph and models learn its geometry. A small note graph names the style, about 70 percent, and the brain tracks the surprise a model computes, the live demo. And our own generative music: FusionGAN, ICDM 2017, a new style as a new edge between two. Close with the teaser: my keynote at AI4BioSig, IEEE BIBM 2026, The Music That Plays the Brain. Stay on this slide for questions, the QR code opens these slides.</aside>
 <script type="application/json" id="clipdata">{"fe_orig": [[76, 0.16], [75, 0.16], [76, 0.16], [75, 0.16], [76, 0.16], [71, 0.16], [74, 0.16], [72, 0.16], [69, 0.48], [60, 0.16], [64, 0.16], [69, 0.16], [71, 0.48], [64, 0.16], [68, 0.16], [71, 0.16], [72, 0.48], [64, 0.16], [76, 0.16], [75, 0.16], [76, 0.16], [75, 0.16], [76, 0.16], [71, 0.16], [74, 0.16], [72, 0.16], [69, 0.48], [60, 0.16], [64, 0.16], [69, 0.16], [71, 0.48], [64, 0.16], [72, 0.16], [71, 0.16], [69, 0.96]], "fe_graph": [[76, 0.16], [71, 0.16], [74, 0.16], [72, 0.16], [69, 0.96], [71, 0.16], [74, 0.16], [72, 0.16], [76, 0.16], [75, 0.16], [76, 0.16], [69, 0.16], [76, 0.16], [71, 0.16], [74, 0.16], [72, 0.16], [76, 0.16], [75, 0.16], [76, 0.16], [69, 0.96], [71, 0.16], [72, 0.16], [69, 0.48], [71, 0.16], [72, 0.16], [76, 0.16], [68, 0.16], [71, 0.48], [72, 0.16], [69, 0.96], [72, 0.16], [69, 0.48], [71, 0.16], [74, 0.16], [72, 0.16], [69, 0.16], [71, 0.16], [74, 0.16], [72, 0.16], [71, 0.8]], "bach_real": [[63, 0.8333], [63, 0.8333], [70, 0.8333], [70, 0.8333], [72, 0.8333], [74, 0.8333], [75, 1.6667], [74, 1.25], [75, 0.4167], [77, 0.8333], [70, 0.8333], [75, 0.8333], [74, 0.8333], [72, 1.6667], [70, 1.6667], [75, 0.8333], [75, 0.8333], [70, 0.8333], [70, 0.8333], [68, 0.8333], [68, 0.8333]], "bach_order1": [[63, 0.8333], [70, 0.8333], [68, 0.8333], [67, 0.8333], [65, 0.8333], [67, 0.8333], [69, 1.6667], [66, 1.25], [68, 0.4167], [66, 0.8333], [71, 0.8333], [73, 0.8333], [71, 0.8333], [71, 1.6667], [70, 1.6667], [72, 0.8333], [70, 0.8333], [68, 0.8333], [66, 0.8333], [65, 0.8333], [66, 0.8333]], "bach_order2": [[63, 0.8333], [65, 0.8333], [63, 0.8333], [65, 0.8333], [66, 0.8333], [65, 0.8333], [63, 1.6667], [66, 1.25], [65, 0.4167], [63, 0.8333], [70, 0.8333], [72, 0.8333], [73, 0.8333], [72, 1.6667], [73, 1.6667], [72, 0.8333], [70, 0.8333], [72, 0.8333], [70, 0.8333], [72, 0.8333], [70, 0.8333]], "bach_order3": [[63, 0.8333], [65, 0.8333], [66, 0.8333], [66, 0.8333], [66, 0.8333], [66, 0.8333], [70, 1.6667], [70, 1.25], [68, 0.4167], [66, 0.8333], [68, 0.8333], [66, 0.8333], [65, 0.8333], [66, 1.6667], [68, 1.6667], [70, 0.8333], [75, 0.8333], [70, 0.8333], [72, 0.8333], [72, 0.8333], [70, 0.8333]], "bach_ordervar": [[63, 0.8333], [70, 0.8333], [73, 0.8333], [75, 0.8333], [77, 0.8333], [78, 0.8333], [68, 1.6667], [70, 1.25], [70, 0.4167], [73, 0.8333], [73, 0.8333], [71, 0.8333], [70, 0.8333], [75, 1.6667], [74, 1.6667], [75, 0.8333], [78, 0.8333], [77, 0.8333], [75, 0.8333], [70, 0.8333], [68, 0.8333]], "essen_real": [[69, 0.6], [74, 0.45], [69, 0.15], [66, 0.45], [69, 0.15], [62, 0.6], [66, 0.6], [64, 0.45], [64, 0.15], [69, 0.3], [69, 0.3], [66, 0.3], [64, 0.3], [62, 0.3], [69, 0.3], [74, 0.45], [69, 0.15], [66, 0.45], [69, 0.15], [62, 0.6], [66, 0.45], [66, 0.15], [64, 0.6], [66, 0.3], [68, 0.3], [69, 1.2], [66, 0.6], [66, 0.3], [66, 0.3], [69, 0.6], [69, 0.6], [67, 0.3], [66, 0.3], [67, 0.3], [69, 0.3], [66, 1.2], [62, 0.6], [62, 0.3], [62, 0.3], [66, 0.6], [66, 0.6], [64, 0.3], [62, 0.3], [64, 0.3], [66, 0.3], [62, 1.2]], "essen_order1": [[74, 0.6], [66, 0.45], [66, 0.15], [66, 0.45], [66, 0.15], [69, 0.6], [71, 0.6], [67, 0.45], [70, 0.15], [71, 0.3], [69, 0.3], [69, 0.3], [67, 0.3], [69, 0.3], [66, 0.3], [66, 0.45], [69, 0.15], [64, 0.45], [66, 0.15], [64, 0.6], [66, 0.45], [62, 0.15], [66, 0.6], [69, 0.3], [69, 0.3], [66, 1.2], [68, 0.6], [68, 0.3], [69, 0.3], [64, 0.6], [62, 0.6], [62, 0.3], [62, 0.3], [66, 0.3], [64, 0.3], [66, 1.2], [67, 0.6], [67, 0.3], [66, 0.3], [64, 0.6], [62, 0.6], [62, 0.3], [69, 0.3], [69, 0.3], [67, 0.3], [67, 1.2]], "essen_order2": [[72, 0.6], [72, 0.45], [72, 0.15], [72, 0.45], [65, 0.15], [67, 0.6], [69, 0.6], [71, 0.45], [69, 0.15], [69, 0.3], [69, 0.3], [67, 0.3], [64, 0.3], [64, 0.3], [71, 0.3], [76, 0.45], [74, 0.15], [76, 0.45], [74, 0.15], [76, 0.6], [69, 0.45], [66, 0.15], [66, 0.6], [64, 0.3], [66, 0.3], [62, 1.2], [69, 0.6], [67, 0.3], [65, 0.3], [67, 0.6], [69, 0.6], [67, 0.3], [66, 0.3], [67, 0.3], [67, 0.3], [64, 1.2], [61, 0.6], [62, 0.3], [62, 0.3], [64, 0.6], [62, 0.6], [64, 0.3], [66, 0.3], [69, 0.3], [71, 0.3], [74, 1.2]], "essen_order3": [[69, 0.6], [74, 0.45], [69, 0.15], [74, 0.45], [66, 0.15], [69, 0.6], [69, 0.6], [71, 0.45], [69, 0.15], [66, 0.3], [67, 0.3], [64, 0.3], [66, 0.3], [62, 0.3], [62, 0.3], [69, 0.45], [67, 0.15], [66, 0.45], [67, 0.15], [69, 0.6], [71, 0.45], [67, 0.15], [66, 0.6], [64, 0.3], [66, 0.3], [67, 1.2], [66, 0.6], [64, 0.3], [69, 0.3], [71, 0.6], [74, 0.6], [76, 0.3], [69, 0.3], [69, 0.3], [66, 0.3], [66, 1.2], [66, 0.6], [66, 0.3], [62, 0.3], [64, 0.6], [64, 0.6], [61, 0.3], [62, 0.3], [62, 0.3], [62, 0.3], [64, 1.2]], "essen_ordervar": [[69, 0.6], [66, 0.45], [64, 0.15], [62, 0.45], [61, 0.15], [71, 0.6], [71, 0.6], [69, 0.45], [74, 0.15], [66, 0.3], [69, 0.3], [69, 0.3], [69, 0.3], [66, 0.3], [66, 0.3], [69, 0.45], [69, 0.15], [67, 0.45], [69, 0.15], [71, 0.6], [73, 0.45], [74, 0.15], [66, 0.6], [64, 0.3], [62, 0.3], [62, 1.2], [62, 0.6], [65, 0.3], [67, 0.3], [65, 0.6], [62, 0.6], [60, 0.3], [65, 0.3], [67, 0.3], [69, 0.3], [70, 1.2], [72, 0.6], [70, 0.3], [72, 0.3], [69, 0.6], [70, 0.6], [71, 0.3], [69, 0.3], [69, 0.3], [69, 0.3], [74, 1.2]]}</script></section>

diff --git a/graph-inside/2026-11-19-cs-colloquium/src/talk.py b/graph-inside/2026-11-19-cs-colloquium/src/talk.py
@@ -1146,16 +1146,16 @@ def fincard(x, head, rows):
     for txt, ours, ic in rows:
         lines = txt.split('|')
         iy = y - 6 + 12 * (len(lines) - 1)
-        col = '#A39D94' if ours else ('#2f6f8f' if ic == 8 else MU)
+        col = '#2f6f8f' if ic == 8 else MU
         o += f'<g transform="translate({x + 48},{iy}) scale(.5) translate({-(x + 48)},{-iy})">' + _g7(ic, x + 48, iy, col) + '</g>'
         for q, ln in enumerate(lines):
-            o += T(x + 86, y + q * 24, ln, 18, 400, '#8F887E' if ours else INK)
+            o += T(x + 86, y + q * 24, re.sub(r'\{(.+?)\}', r'<tspan fill="#9A948B">\1</tspan>', ln), 18, 400, INK)
         y += 24 * len(lines) + 14
     return o
 g += fincard(30, 'Language', [('Facts are triples. An edit adds a|bypass, and the old path stays.', False, 8),
-                              ('Our delta graph: 17 of 20 checks|find a bad edit. SDM 2026', True, 2), ('Our QGC: a missing path means a worse|answer, for every model. CIKM 2026', True, 1)])
-g += F(1, fincard(600, 'Music', [('Music theory is a graph, and models|learn its geometry.', False, 5), ('A small note graph names the style, and|the brain tracks its surprise. Live demo', False, 3),
-                                 ('Our FusionGAN: a new style is a new|edge between two. ICDM 2017', True, 2)]))
+                              ('Our delta graph: 17 of 20 checks|find a bad edit. {SDM 2026}', True, 2), ('Our QGC: a missing path means a worse|answer, for every model. {CIKM 2026}', True, 1)])
+g += F(1, fincard(600, 'Music', [('Music theory is a graph, and models|learn its geometry.', False, 5), ('A small note graph names the style, and|the brain tracks its surprise. {Live demo}', False, 3),
+                                 ('Our FusionGAN: a new style is a new|edge between two. {ICDM 2017}', True, 2)]))
 FINAL = sec('Look for the graph, in language and in music', SVG(g, 268), ch='4',
             notes=('The close, both parts in one picture. Language: facts are triples that hold each other up, and an edit adds a bypass while the old path stays. '
                    'Our two results: the delta graph finds 17 bad edits in 20 checks, SDM 2026, and QGC shows a missing path means a worse answer for every model, CIKM 2026. '
